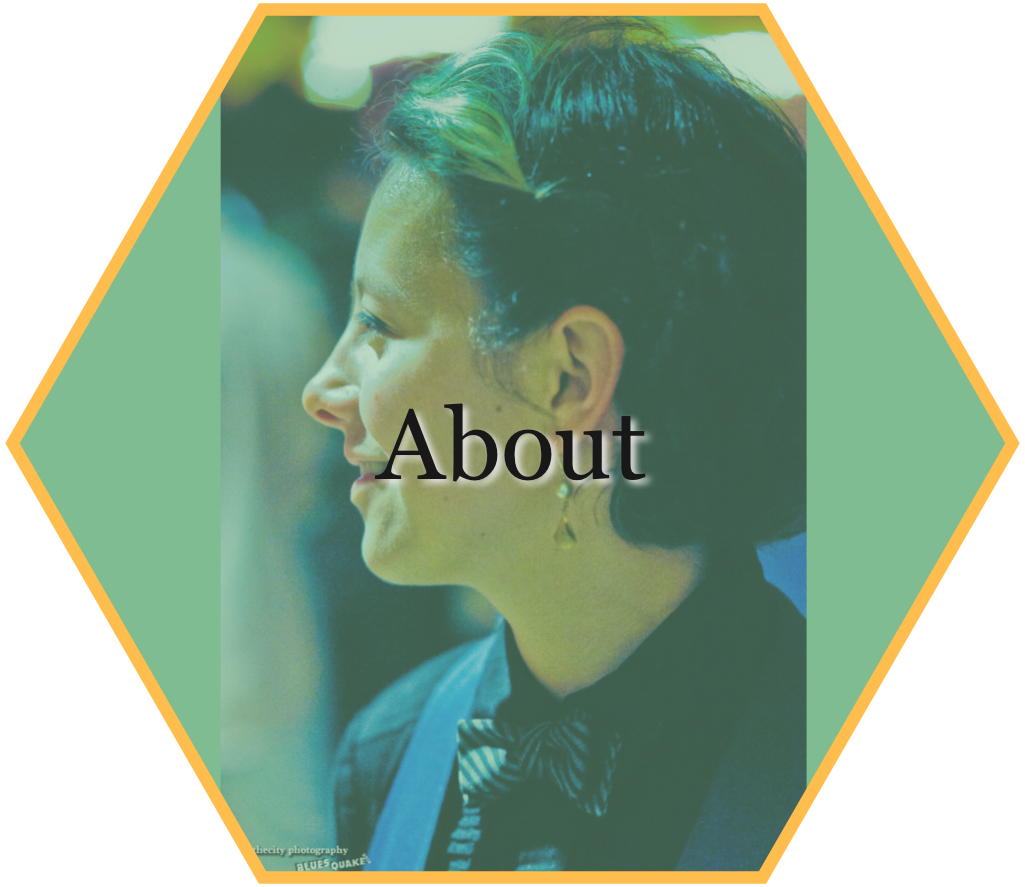
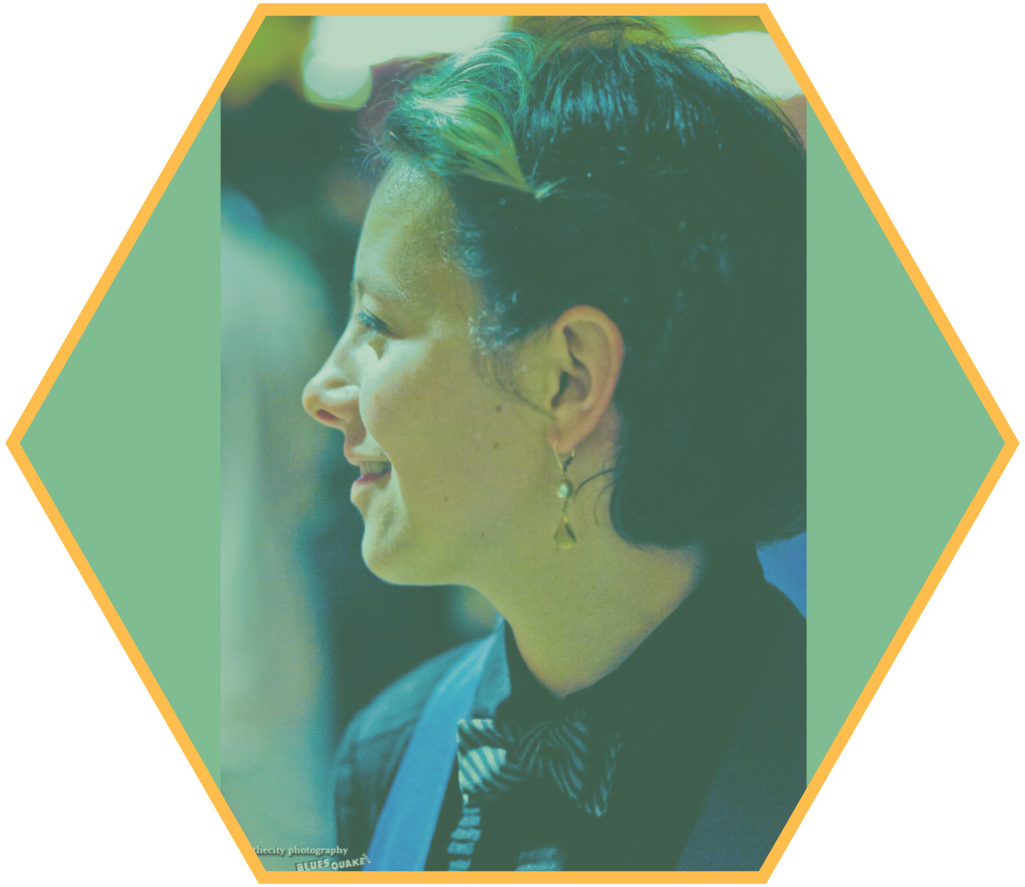
Text overlay on images. Hexes as links.
Yay! It's working!

Changed region(s): [[0.3746, 0.4566, 0.6556, 0.5479]]

diff --git a/homeycombs/css/homeycombs.css b/homeycombs/css/homeycombs.css
@@ -1,20 +1,37 @@
 /* Main Body Definition */
 
+/* define default styling for everything */
 body {
     font-family: Georgia;
+    cursor: default;
 }
 
+/* position and size of chop in corner */
 .chop {
     height: 100px;
     position: fixed;
     top: 15px;
 }
 
+/* style and position page title */
 h1 {
     font-size: 50px;
     margin-left: 120px;
 }
 
+/* style and position hex label */
+.hexlabel {
+    position: absolute;
+    margin-top: 2em;
+    font-size: 30pt;
+    height: 100%;
+    width: 100%;
+    color: #000;
+    z-index: 1;
+}
+
+/* attempting to style images-as-links */
+/*
 a.hovertext {
     position: relative;
     width: 100%;
@@ -41,6 +58,7 @@ a.hovertext:after {
 a.hovertext:hover:after, a.hovertext:focus:after {
     opacity: 1.0;
 }
+*/
 
 /* Homeycombs styling, customized a bit. */
 
@@ -51,9 +69,10 @@ a.hovertext:hover:after, a.hovertext:focus:after {
     text-align: center;
 }
 
-/* use this to put text on top of hex images. contained within <span></span> */
+/* use this to put text on top of hex images in a rollover. contained within <span></span> */
 .honeycombs .inner_span{
     font-size: 30pt;
+    margin-bottom: 0;
     height: 100%;
     width: 100%;
     background: #fcb03c;
@@ -66,6 +85,7 @@ a.hovertext:hover:after, a.hovertext:focus:after {
     padding-top: 30%;
 }
 
+/* even more <span> styling */
 .honeycombs .honeycombs-inner-wrapper{
     display: inline-block;
     overflow: hidden;
@@ -74,6 +94,7 @@ a.hovertext:hover:after, a.hovertext:focus:after {
     height: 1200px;
 }
 
+/* individual comb styling */
 .honeycombs .comb{
     position: absolute;
     display: inline-block;

diff --git a/index.html b/index.html
@@ -33,25 +33,47 @@
 
     <!-- laying out the hexagons -->
     <div class="honeycombs">
-      <div class="comb">
-	<a>
-	  <img src="images/physproj.png" />
-	  <span>&nbsp;</span> <!-- forcing hover state -->
-	</a>
-      </div>
-      <div class="comb">
+      <!-- Physical Projects -->
+      <a class="comb" href="http://google.com">
+	<img src="images/physproj.png" />
+	<div class="hexlabel">
+	  <p>Physical<br />Projects</p>
+	</div>
+	<span>Physical<br />Projects</span>
+      </a>
+      <!-- Digital Projects -->
+      <a class="comb" href="">
+	<div class="hexlabel">
+	  <p>Digital<br />Projects</p>
+	</div>
 	<img src="images/digiproj.png" />
 	<span>Digital<br/>Projects</span>
-      </div>
-      <div class="comb">
+      </a>
+      <!-- Connect -->
+      <a class="comb" href="">
+	<div class="hexlabel">
+	  <p>Connect</p>
+	</div>
 	<img src="images/connect.png" />
-      </div>
-      <div class="comb">
+	<span>Connect</span>
+      </a>
+      <!-- Resume -->
+      <a class="comb" href="">
+	<div class="hexlabel">
+	  <p>Resume</p>
+	</div>
 	<img src="images/resume.png" />
-      </div>
-      <div class="comb">
+	<span>Resume</span>
+      </a>
+      <!-- About -->
+      <a class="comb" href="">
+	<div class="hexlabel">
+	  <p>About</p>
+	</div>
 	<img src="images/about.png" />
-      </div>
+	<span>About</span>
+      </a>
+      <!-- two blue hexes -->
       <div class="comb">
 	<img src="images/blue.png" />
       </div>
